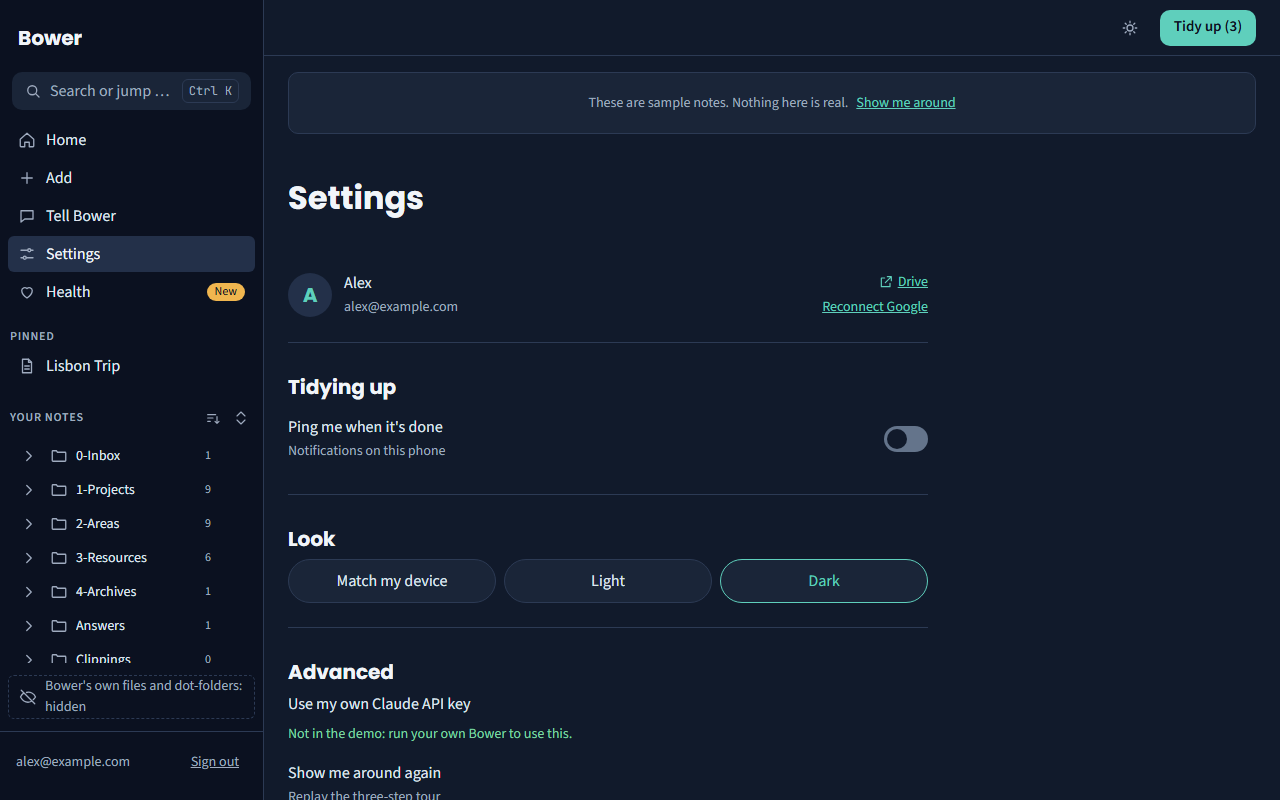
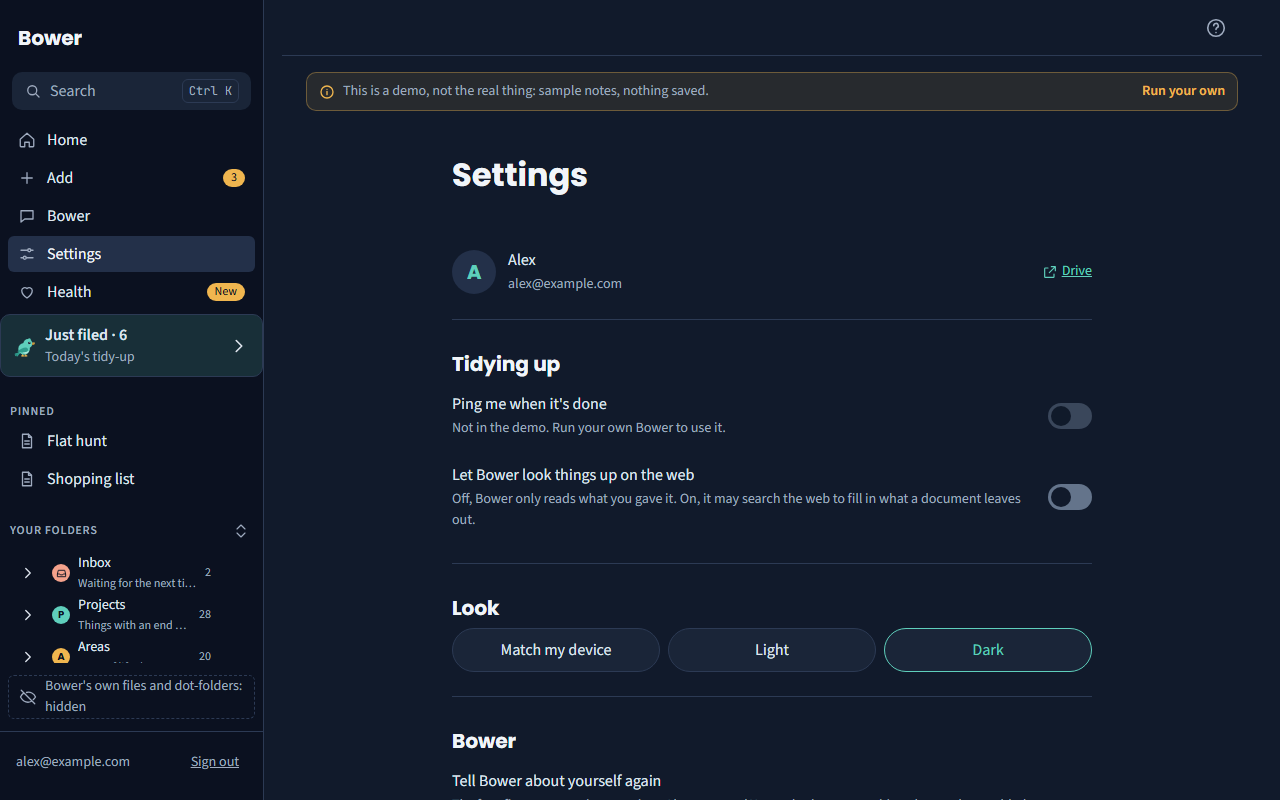
docs: README with Bower v9, what it is and is not, and the v5 status (#801)
* docs(readme): Bower v9 illustrations, what it is and is not, strengths, current status

New animated drawings (hero, how it works, is and is not, strengths)
with the v9 satin bowerbird; the other README drawings and the
social preview move to v9. The Bower tab replaces Tell Bower, and the
status points at the v5 plan.

* docs(readme): check the README against the code, new screenshots

Regenerate the screenshots with e2e:shots (bower.png replaces tell.png)
and match their alt texts. Correct How it works, What makes it
different, The app, the diagrams and Principles against main. The app
can append to and edit a note, so "Not an editor" becomes "Not a
writing app", in the table and the illustration. Say that rankings and
digests are asked for, add pandoc to the agent's stack, fix the docs
layout line, and name the three items still open before M34.

---------

diff --git a/README.md b/README.md
@@ -1,8 +1,8 @@
 <p align="center">
-  <img src="docs/assets/hero.svg" alt="Bower: a second brain that files itself. The bird looks around for something bright." width="640">
+  <img src="docs/assets/hero.svg" alt="Bower: a second brain that files itself. The bird looks around; your folders: Projects, Areas, Resources, Archive." width="900">
 </p>
 
-<p align="center">Drop a file, tap <em>Tidy up</em>, get a note. Your Google Drive, your notes; a Claude agent does the filing.<br>
+<p align="center"><b>Drop a file, tap <em>Tidy up</em>, get it filed.</b> Your Google Drive, your notes; a Claude agent does the filing.<br>
 Self-hosted, zero servers, 0 € a month.</p>
 
 <p align="center">
@@ -16,13 +16,13 @@ Self-hosted, zero servers, 0 € a month.</p>
 
 <table align="center">
   <tr>
-    <td align="center"><img src="docs/assets/screenshots/home.png" alt="Home: the bird greets Alex, three things waiting in the inbox, pinned and recent notes." width="260"><br><sub>Home</sub></td>
-    <td align="center"><img src="docs/assets/screenshots/note.png" alt="A note opened from the quick switcher: Lisbon Trip." width="260"><br><sub>A note</sub></td>
-    <td align="center"><img src="docs/assets/screenshots/add.png" alt="Add: a file dropped into the inbox." width="260"><br><sub>Add</sub></td>
+    <td align="center"><img src="docs/assets/screenshots/home.png" alt="Home: the bird greets Alex, three things waiting in the inbox, the Inbox, Last tidy-up, Health and Notes cards, pinned and recent notes." width="260"><br><sub>Home</sub></td>
+    <td align="center"><img src="docs/assets/screenshots/note.png" alt="A note, Lisbon Trip: its tags, its links to the rest of the trip, what is still open, and an outline beside it." width="260"><br><sub>A note</sub></td>
+    <td align="center"><img src="docs/assets/screenshots/add.png" alt="Add: the drop zone the bird peeks over, a box to paste a link, a file waiting in the inbox and a box for saying what it is." width="260"><br><sub>Add</sub></td>
   </tr>
   <tr>
-    <td align="center"><img src="docs/assets/screenshots/tidy-up.png" alt="Tidying up, done: three files processed and the inbox empty." width="260"><br><sub>Tidy up</sub></td>
-    <td align="center"><img src="docs/assets/screenshots/tell.png" alt="Tell Bower: a question sent, waiting for the next tidy-up." width="260"><br><sub>Tell Bower</sub></td>
+    <td align="center"><img src="docs/assets/screenshots/tidy-up.png" alt="Tidying up, done: six files processed, the list of what was filed, and the inbox empty." width="260"><br><sub>Tidy up</sub></td>
+    <td align="center"><img src="docs/assets/screenshots/bower.png" alt="The Bower tab: a box for saying what you want, then Rules, Requests and Activity side by side." width="260"><br><sub>The Bower tab</sub></td>
     <td align="center"><img src="docs/assets/screenshots/settings.png" alt="Settings in the dark theme." width="260"><br><sub>Settings, dark</sub></td>
   </tr>
 </table>
@@ -33,21 +33,27 @@ Self-hosted, zero servers, 0 € a month.</p>
 
 ## Why a bowerbird
 
-The bowerbird lives only in Australia and New Guinea. The male spends his days collecting bright things (shells, feathers, flowers, the odd blue bottle cap), arranging them in front of his bower of twigs, sorted by colour and size, and then showing the whole thing off. Rivals steal from each other's collections. It is the tidiest animal there is, and it does all of it to impress.
+The bowerbird lives only in Australia and New Guinea. The male spends his days collecting bright things (shells, feathers, flowers, the odd blue bottle cap), arranging them in front of his bower of twigs, sorted by colour and size, and then showing the whole thing off. It is the tidiest animal there is, and it does all of it to impress.
 
 That is the job Bower does for your notes. It collects what you throw at it (photos, PDFs, links, voice memos, half-thoughts) and keeps it as tidy Markdown in a folder of **your own Google Drive**. You read it in the app, or in Obsidian pointed at the same folder. Nothing leaves your account; the people who run the instance never see a note.
 
 <p align="center"><img src="docs/assets/why.svg" alt="Three panels: the bird collects a bright thing, arranges papers and twigs in its nest, and shows off with its wing open" width="900"></p>
 
+## What it is, and what it is not
+
+<p align="center"><img src="docs/assets/is-and-is-not.svg" alt="Bower is: a window onto one folder of your Drive, a filer that reads what you save, a rulebook in plain English, one button. Bower is not: a writing app, a place your things are stored, another app to move into, always watching (only a weekly health check runs on its own)." width="900"></p>
+
+The details are in [What Bower is not](#what-bower-is-not), below.
+
 ## How it works
 
-<p align="center"><img src="docs/assets/how-it-works.svg" alt="The bird carrying a paper and a twig from your inbox to the nest, labelled with your folders" width="600"></p>
+<p align="center"><img src="docs/assets/how-it-works.svg" alt="Three steps: drop a pile of files and links, tap Tidy up, and the bird carries each thing to the right folder of your Google Drive, renamed." width="900"></p>
 
 1. **Add something.** From your phone or your PC: drop a file, share from any app, paste a link, or just type.
 2. **Tap Tidy up.** Nothing runs on a schedule. When you tap, the bird wakes up in the background and you carry on.
 3. **It reads enough to know what it is.** A receipt, a lease, a photo of a sign, a job offer.
 4. **It files it.** The original itself moves into the folder you told it to use, or, where you said nothing, where PARA says: a project if it has an end, an area if it is ongoing, a resource if it is reference, the archive when it is done. A name that says nothing (`IMG_4471.jpg`) becomes one that does; the folder's page and the index get one line each. No summary, no copy, no translation unless you ask.
-5. **It writes a note when there is something to write.** A web clip or a saved link becomes a note; a Word, OpenDocument, HTML, EPUB or RTF document gets a Markdown copy filed next to the original; and when you say what you want (**What is this?** on Add, or a rule), it does that too: a table, a summary, a translation. With **Let Bower look things up on the web** turned on in Settings, and allowed by whoever runs your Bower, it may search the web to fill in what a document leaves out.
+5. **It writes a note when there is something to write.** A web clip or a saved link becomes a note; a Word, OpenDocument, HTML, EPUB or RTF document gets a Markdown copy filed next to the original; a receipt, a booking, a job offer or another kind of document Bower knows gets a short note next to it with its key facts; and when you say what you want (**What is this?** on Add, or a rule), it does that too: a table, a summary, a translation. With **Let Bower look things up on the web** turned on in Settings, and allowed by whoever runs your Bower, it may search the web to fill in what a document leaves out.
 6. **It remembers and connects.** Ask once and it becomes a rule in your rulebook. Everything it keeps for you is one more thing it can join to the next: the job ad gets a commute from the flat you shortlisted.
 7. **Read it anywhere.** In the app, or in Obsidian on the same folder.
 
@@ -63,7 +69,9 @@ Filing is the half you see. The other half is that Bower **reads** what you save
 
 **One case per letter of PARA.** A **project**: flat hunting, every listing ranked and every job ad measured against the flats. An **area**: your health, each lab report filed and one table that shows what changed over the year. A **resource**: six articles on sourdough become one digest that says where they disagree. The **archive**: a finished trip filed away with what to remember, nothing deleted.
 
-**It remembers.** Ask once, in plain English, and it becomes a rule in your rulebook. **It joins the dots.** It tells you what you would not have noticed, and never what you already know.
+The ranking, the table and the digest are what you ask for, once; the filing and the note about each thing come on their own.
+
+**It remembers.** Ask once, in plain English, and it becomes a rule in your rulebook. **It joins the dots.** It adds what follows from your own notes, names the notes it used, and never guesses.
 
 ## What Bower is not
 
@@ -73,22 +81,24 @@ Bower is a window onto one folder of your own Google Drive. Everything else foll
 
 | | |
 | --- | --- |
-| **Not an editor** | It reads, files and writes notes for you. To write yourself, open the folder in Obsidian or any text editor; it is plain Markdown, and Bower picks up your changes on the next tidy-up. |
+| **Not a writing app** | You can add a line to a note or make a quick edit in the app, but it is made for reading. To write at length, open the folder in Obsidian or any text editor; it is plain Markdown, and Bower picks up your changes on the next tidy-up. |
 | **Not a place your things are stored** | Nothing of yours lives on a Bower server: the Worker keeps your sign-in and a pointer to the folder, never a note. The tidy-up runs on a temporary copy that is deleted when it ends. |
 | **Not the only way in** | The folder is plain Markdown in your Drive, so open it with anything: Obsidian as a vault, Google Docs, a file manager, your phone's Files app. They can add their own dot-folders (`.obsidian`, `.trash`); Bower hides those and never touches them, and reads your edits at the next tidy-up. |
 | **Not another app to move your life into** | No import, no export. It points at a folder in the Drive you already have. Delete the app and the folder, the notes and the rules are still there. |
 
 ## What makes it different
 
+<p align="center"><img src="docs/assets/strengths.svg" alt="Six strengths, each with the bird: your Drive and your notes, one button, a rulebook you can read, talk to it, readable offline, 0 euros a month to run." width="900"></p>
+
 | | |
 | --- | --- |
 | **Your data, your account** | Notes are plain Markdown in your Drive. Delete the app and they are still there. |
 | **One button** | No inbox zero rituals. Add things all week, tap once. |
-| **A rulebook you can read** | The agent follows a `CLAUDE.md` in your folder, in plain English. Every rule you give it is written there, dated. |
-| **Talk to it** | Rules, tasks and questions go through the same inbox as everything else. |
-| **Works offline** | The app is a PWA: your notes are cached, adding waits for signal. |
+| **A rulebook you can read** | The agent follows a `CLAUDE.md` in your folder, in plain English. Every rule you give it goes into `Rules.md` next to it, dated. |
+| **Talk to it** | In the Bower tab, type what you want: a rule, a job or a question. A rule is kept at once; a job or a question waits in the inbox with everything else and is done at the next tidy-up. |
+| **Works offline** | The app is a PWA: your notes are cached for reading; adding needs a connection. |
 | **0 € to run** | Cloudflare and GitHub free tiers; you bring a Claude subscription and a Drive. |
-| **A bird with a job** | The mascot is not decoration. It looks around when idle, peeks over the drop zone, sings while you type, carries papers to the nest while it works, and dances when it's done. |
+| **A bird with a job** | The mascot is not decoration. It looks around when idle, peeks over the drop zone, carries papers to the nest while it works, and dances when it's done. |
 
 ## The app
 
@@ -96,19 +106,19 @@ One explorer, on every screen size: on a computer it is the left column, on a ph
 
 | Screen | What you see |
 | --- | --- |
-| Home | The bird greets you and tells you what is waiting. After a tidy-up it says what it filed and links to **Just filed**. Inbox and Answers counts, recent notes with their key facts, one search field. |
+| Home | The bird greets you and tells you what is waiting. After a tidy-up it says what it filed and links to **Just filed**. An Inbox card with **Tidy up** and a Last tidy-up card (on a desktop, Health and Notes too), what you pinned, recent notes with their key facts. |
 | Notes | Your notes and files as one explorer: pinned things first, your folders below, **New** on what the last tidy-up filed and you have not opened yet. |
 | Just filed | What the last tidy-up did: each thing with the name it had, the name it has now and the folder it went to, what Bower set aside and why, and what it added. |
-| A folder | Rows with a small mark for what each is, sorted and filtered by kind, grouped by date. A file and the note Bower wrote about it sit side by side. Notes of one kind, such as receipts or bookings, can be **compared** in a table, or as cards on a phone. |
+| A folder | A list, or a grid of thumbnails, with a small mark for what each is, sorted and filtered by kind, grouped by date. A file and the note Bower wrote about it sit side by side. Hold one for a quick look without leaving the folder. Notes of one kind, such as receipts or bookings, can be **compared** in a table, or as cards on a phone. |
 | A note | Reading first: the title, the key facts, Bower's note as a callout that says where each line came from, and **Check** when it needs you. Previous and next in the folder; on a desktop, an outline and an About panel. |
 | A file | A PDF, a photo, a spreadsheet, a video: shown as Drive allows, with its facts (pages, sheets, what is in a ZIP) and the note Bower wrote about it. **Move to…** asks Bower to file it somewhere else, now or at the next tidy-up. |
 | Search | Groups, kind chips and a scope. On a desktop, two columns with a preview of the highlighted result. |
 | Add | A drop zone the bird peeks over, camera, paste-a-link, upload progress, and a box for saying what a file is. |
-| Tell Bower | A conversation. The bird sings while you type. |
+| Bower | Tell Bower what you want in your own words: a rule is kept at once, a job or a question waits for the next tidy-up (or **Do it now**). **Rules** lists every rule, grouped by topic, and what Bower suggests; **Requests** what is waiting, being done or answered; **Activity** what each tidy-up did. On a wide screen the three sit side by side. |
 | Tidying up | A sheet with the inbox-to-nest scene, what has been filed and where. |
-| First run | The bird builds your Bower folder in front of you, then shows you around in three steps. Once per account. |
+| First run | The bird builds your Bower folder in front of you, asks four short questions you can skip, then shows you around in four steps. Once per account. |
 
-Still to come (issues #613 and #614): a grid view of a folder, a quick look at a file without leaving the list, and side-by-side panes on the desktop.
+On a desktop 1200 px wide or more, the explorer, the folder and a preview of the selected item sit side by side, with keyboard shortcuts.
 
 ## For engineers
 
@@ -128,12 +138,12 @@ flowchart LR
     Drive[("Your Google Drive folder")]
     Anthropic["Anthropic API"]
 
-    App -- "sign in, status, push" --> Worker
+    App -- "sign in, Tidy up, status, push" --> Worker
     App -- "read/write 0-Inbox, own token" --> Drive
-    Worker -- "repository_dispatch" --> Runner
+    Worker -- "repository_dispatch with a run ticket (Tidy up, or the weekly cron)" --> Runner
     Runner -- "rclone" --> Drive
     Runner -- "claude -p" --> Anthropic
-    Runner -- "status" --> Worker
+    Runner -- "Drive token, status (the ticket)" --> Worker
     Worker -. "web push" .-> App
 ```
 
@@ -148,12 +158,12 @@ sequenceDiagram
     participant Anthropic
     App->>Worker: POST /process
     Worker->>Actions: repository_dispatch (with this run's ticket)
-    Actions->>Worker: GET /runner/vaults/:id (the ticket)
+    Actions->>Worker: GET /runner/vaults/:id (Bearer the ticket): a 1 h Drive token
     Actions->>Drive: rclone sync down
     Actions->>Anthropic: claude -p, following the folder's CLAUDE.md
     Anthropic-->>Actions: organised notes
     Actions->>Drive: rclone copy up
-    Actions->>Worker: POST /runner/vaults/:id/status
+    Actions->>Worker: POST /runner/vaults/:id/status (the ticket)
     Worker-->>App: web push
 ```
 
@@ -170,7 +180,7 @@ What happens after the agent has filed, in the order it runs (details in `docs/r
 | --- | --- | --- |
 | `app/` | Preact + Vite + TypeScript, a service worker for the shell cache, share target and push | Cloudflare Pages (free), in your browser |
 | `api/` | Hono + KV + Web Crypto | Cloudflare Workers + KV (free) |
-| `agent/` | Bash (`run.sh`) + rclone + the Claude Code CLI | GitHub Actions of the operator's own private instance repo (free tier) |
+| `agent/` | Bash (`run.sh`) + rclone + pandoc + the Claude Code CLI | GitHub Actions of the operator's own private instance repo (free tier) |
 | `vault-template/` | Markdown notes and a `CLAUDE.md` rulebook | Copied into each user's Google Drive on first sign-in |
 
 ### Principles
@@ -178,8 +188,8 @@ What happens after the agent has filed, in the order it runs (details in `docs/r
 - **The folder is the only state.** Your Drive holds every note; the Worker keeps credentials and pointers, never content; the runner keeps nothing once a run ends.
 - **Cost first.** Free tiers only, no servers, no database of note content; a dependency that would break this needs a decision entry first (`docs/decisions.md`).
 - **No personal data, ever.** Not in code, tests, fixtures, docs or commits, enforced by a CI grep gate (`scripts/check-sanitized.sh`).
-- **Rules are data.** The agent's behaviour lives in the folder's own `CLAUDE.md`, changed only through a dated instruction note; it never edits its own rules unasked.
-- **On demand, never scheduled.** A tidy-up runs when you tap. The only scheduled job is a weekly health check that reports and never moves a file.
+- **Rules are data.** The agent's behaviour lives in the folder's own `CLAUDE.md` and your `Rules.md`. Your rules change only when you ask, from the Bower tab or a note, or accept a suggestion; the agent never edits its own rules unasked.
+- **On demand, never scheduled.** A tidy-up runs when you tap. The only scheduled job is a weekly health check, started by the Worker's own cron trigger, that makes only safe mechanical fixes, reports, and never moves a file.
 
 Full module map, data flows, credentials and threat model: [`ARCHITECTURE.md`](ARCHITECTURE.md).
 
@@ -202,7 +212,7 @@ app/             PWA (Vite + Preact + TS)            → Cloudflare Pages
 api/             Worker (Hono + KV + Web Crypto)     → Cloudflare Workers
 agent/           run.sh, prompts/, workflows/         → operator's private instance repo (GitHub Actions)
 vault-template/  the folder every user starts from    → copied into the user's Drive
-docs/            runbook, decisions, brand, design, testing
+docs/            runbook, decisions, brand, security, testing
 scripts/         deploy.sh, new-instance.sh, checks
 ```
 
@@ -218,19 +228,19 @@ Full walkthrough: [`docs/runbook.md`](docs/runbook.md). Short version, driven mo
 
 ## Status
 
-Shipped: M1 · API and onboarding, M2 · Agent, M3 · App v1, M4 · Public release. In progress: the redesign.
+Shipped: M1 to M33, from the first API to the explorer and the file views. Still open from those: an external dry run of the deploy docs (#48), semantic search (#51) and linked mentions (#150).
 
-| Milestone | What | Issues |
-| --- | --- | --- |
-| [M6 · Redesign: foundations](../../milestone/7) | Tokens and fonts, the bird as a component and as the mark, Process renamed Tidy up, this README | [#136](../../issues/136) [#137](../../issues/137) [#138](../../issues/138) [#139](../../issues/139) |
-| [M7 · Redesign: shell and explorer](../../milestone/8) | Three-column desktop, phone nav and drawer, hidden app files, quick switcher | [#140](../../issues/140) [#141](../../issues/141) [#142](../../issues/142) |
-| [M8 · Redesign: screens](../../milestone/9) | Every route with the bird: Home, Note, Add, Tell, the Tidying up sheet, Settings, Health | [#143](../../issues/143) to [#148](../../issues/148) |
-| [M9 · Redesign: first run](../../milestone/10) | Welcome, folder, Building your bower, the tour, once per account | [#149](../../issues/149) |
-| [M10 · Redesign: phase 2](../../milestone/11) | Linked mentions, per-message status from the runner, real screenshots | [#150](../../issues/150) [#151](../../issues/151) [#152](../../issues/152) |
-| [M5 · Next](../../milestone/6) | Append to a note, editing, semantic search, Google Picker, email-in | [issues](../../milestone/6) |
+Next, v5 (milestones M34 to M46, planned in [`PLAN.md`](PLAN.md) from the spec [`docs/superpowers/plans/2026-09-29-runs-notes-folders-spec.md`](docs/superpowers/plans/2026-09-29-runs-notes-folders-spec.md)):
+
+- **Every tidy-up says what it did**, in four counts (filed, new notes, updated, needs you), and a bar follows you on every screen while it runs.
+- **Bower's note** on every note it writes, folded to one line when you want, with a verdict and next steps where it helps.
+- **Piles:** add things together and say in one line what they are; uploads survive a closed tab.
+- **Dictation** wherever you write a sentence, and a short intro plus a **Learn Bower** page.
+- **Bower on screen:** the bird, redrawn as a satin bowerbird, keeps you company without getting in the way.
+- **A missing Bower folder** is noticed and can be put back.
 
 Why things are built this way: [`docs/decisions.md`](docs/decisions.md). What an instance stores about you: [`docs/privacy.md`](docs/privacy.md). Contributing: [`CONTRIBUTING.md`](CONTRIBUTING.md).
 
 ## Credits
 
-Built by [Pablo de Luis](https://github.com/deluispablo), with Claude Code doing the typing. MIT licensed. The bird is drawn from the bowerbird, which really does collect, sort and show off; the brand is described in [`docs/brand.md`](docs/brand.md).
+Built by [Pablo de Luis](https://github.com/deluispablo), with Claude Code doing the typing. MIT licensed. The bird is drawn from the satin bowerbird, violet eye and blue bottle cap included, which really does collect, sort and show off; the brand is described in [`docs/brand.md`](docs/brand.md).
